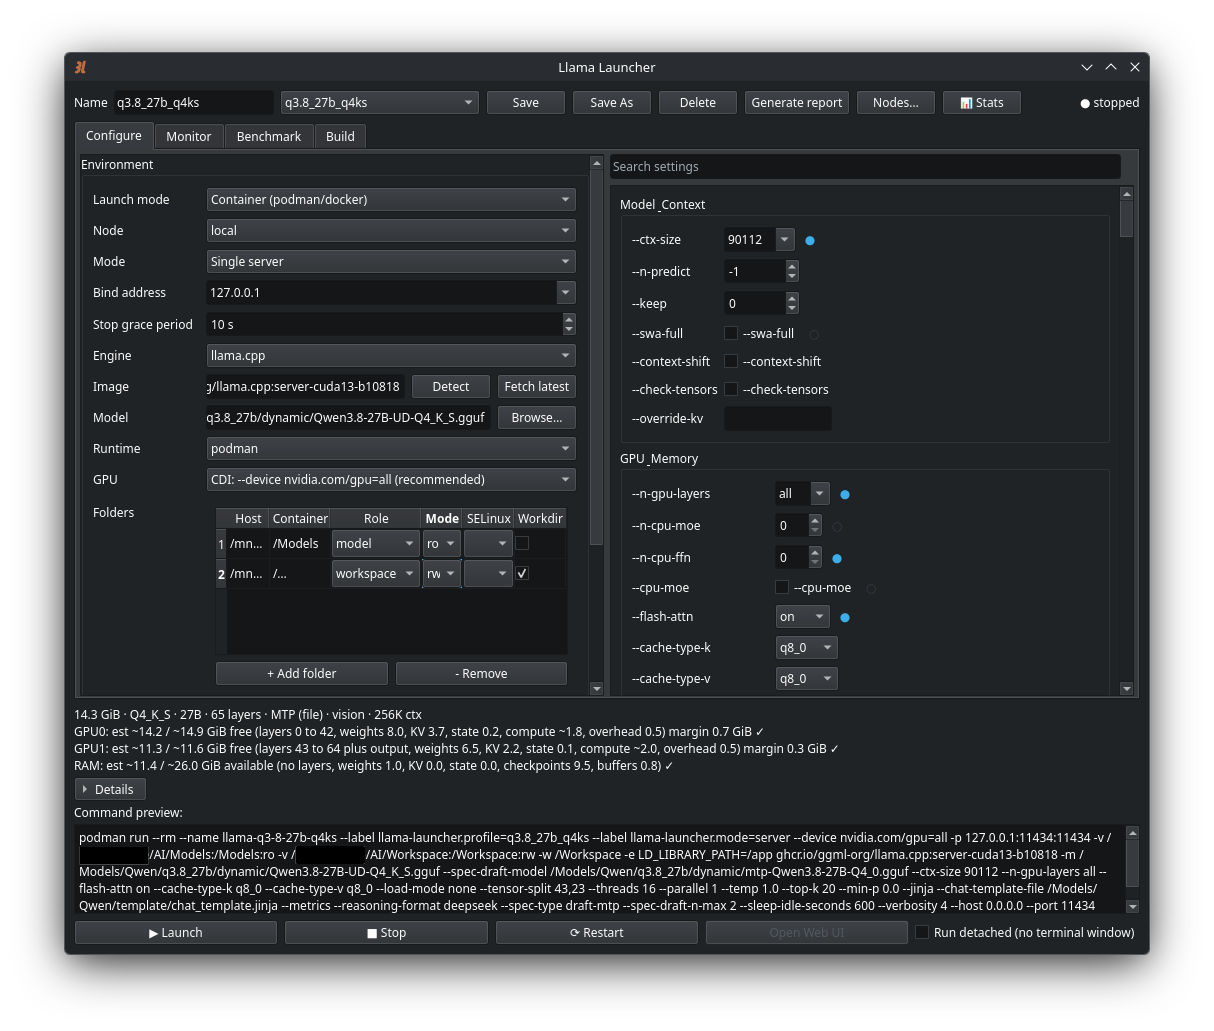
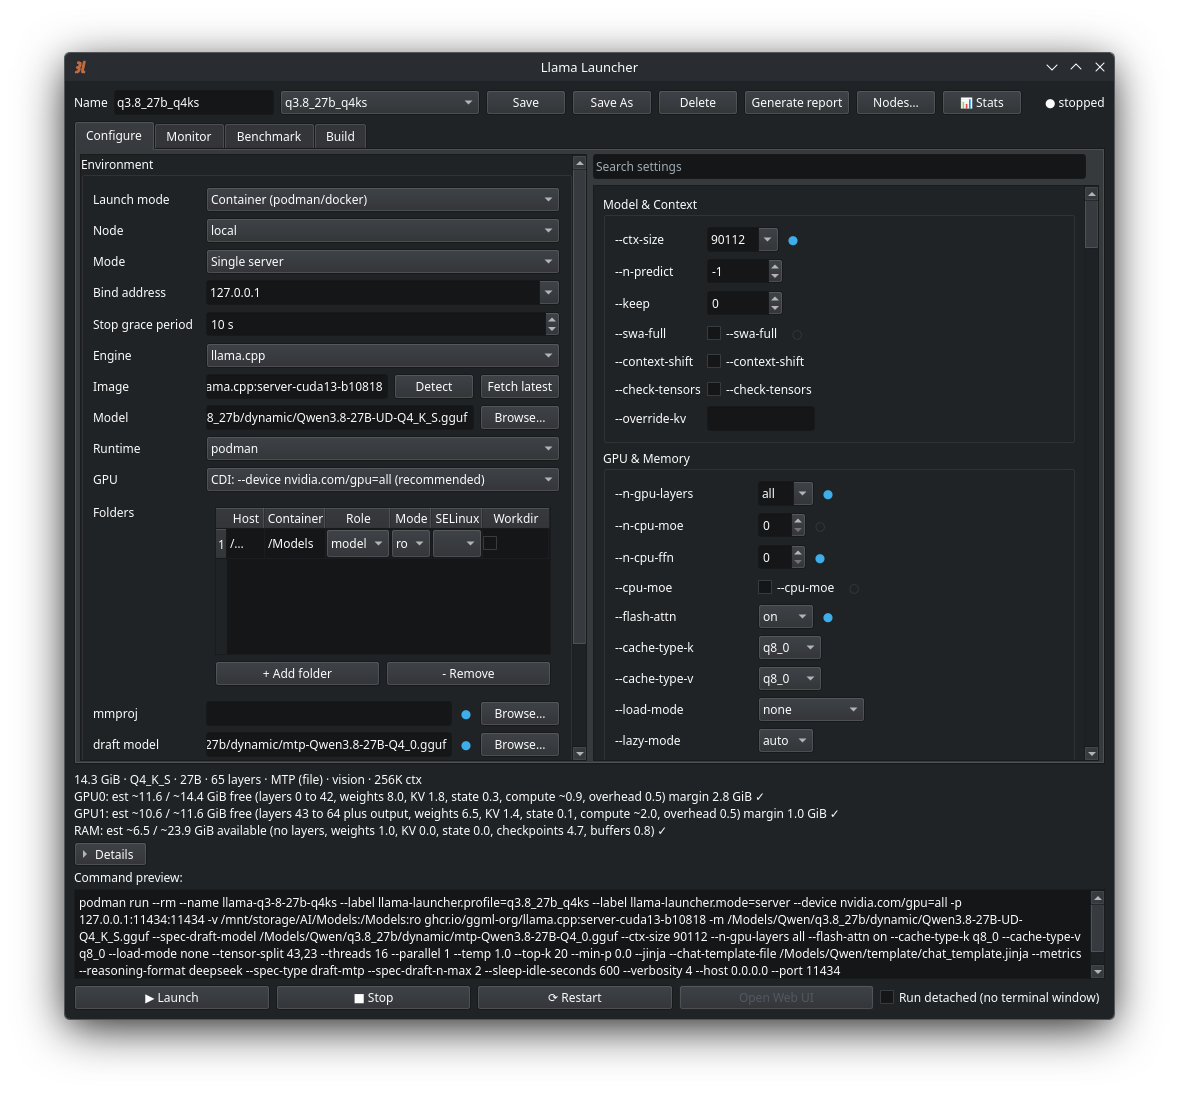
docs(screenshots): re-shot Configure, Build and Router captures with literal ampersands

Changed region(s): [[0.0305, 0.031, 0.9466, 0.9311], [0.6412, 0.4345, 0.7328, 0.6828]]

diff --git a/TASKS.md b/TASKS.md
@@ -9,8 +9,7 @@ spec-type (SPEC 2.32), the fourth 2026-09-10 run is a calibration record
 that separates that rule from slots plus depth, and validation no longer
 warns that draft-mtp needs a single slot (SPEC 2.44). Next: the release
 commit on main that sets pyproject to 0.2.0 and dates the CHANGELOG section,
-then the v0.2.0 tag and the GitHub release, each on the owner's yes; the
-config.png and build.png re-shoot can land before or after it.
+then the v0.2.0 tag and the GitHub release, each on the owner's yes.
 
 ## Open items
 
@@ -191,10 +190,10 @@ config.png and build.png re-shoot can land before or after it.
 
 ## Pending owner smokes
 
-- [ ] Re-shoot assets/screenshots/config.png and build.png on the 5080 plus
-      A2000 box: both show group titles with the ampersand swallowed
-      ("Model _Context", "Features _networking") that now render as
-      ampersands.
+- [x] Re-shoot assets/screenshots/config.png and build.png on the 5080 plus
+      A2000 box, where the group titles had the ampersand swallowed. Done
+      2026-09-11 along with router.png: "Model & Context", "GPU & Memory"
+      and "CPU & ISA" render as ampersands.
 - [x] Run the 27B profile at `--parallel 2` with the MTP draft on. Done
       2026-09-10, the fourth run in
       DevDocs/llama_launcher/calibration-2026-09-10/verb4-27b-and-35b.md.
